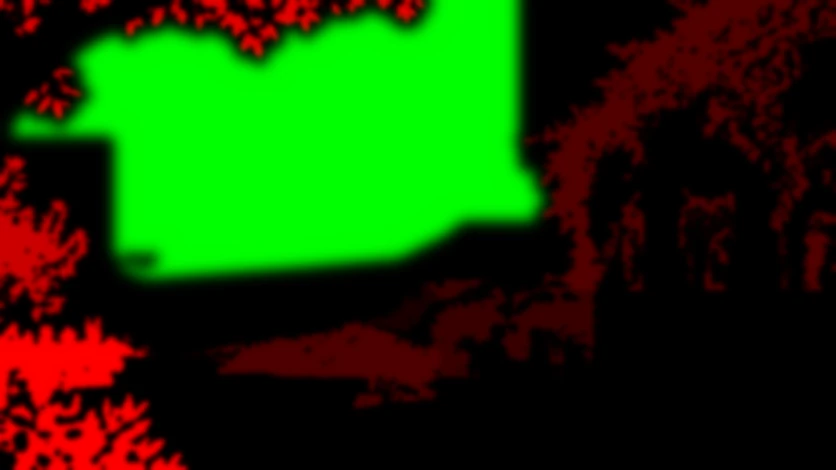
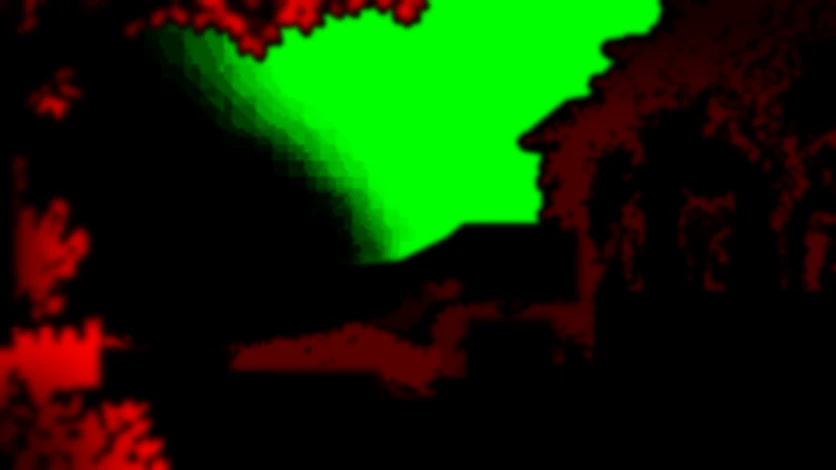
Hero: the breeze and the clouds are plain to see
The first version moved too little to notice (leaves about 1 px/s, clouds
not at all in practice).

Leaves: a new motion map (branches held at the wood, free at the tips;
books, bench, people, temple and trunk kept still) and a stronger breeze
with gusts. Measured in the running page at 1708 x 982: about 7 px/s as a
rule, up to 24-30 px/s in a gust; stone and people at 0.

Clouds: they now truly cross the sky instead of cross-fading in place.
The picture's clouds are lifted onto a belt that goes round (what each
adds over the bare sky, and how opaque it is); where the sky is open and
blue the page takes the picture's cloud out and lays the belt's over what
is left. They come out of the sun's glow on the left and go behind the
vines on the right, 9 px/s, and more clouds wait where no sky shows, so
the sky never empties. With the belt at its start the result is the
picture itself, so nothing jumps when the motion begins.

Claude-Session: https://claude.ai/code/session_01RrPH73gTjXxXCz3BhyU8SM

diff --git a/app/components/landing/HeroScene.tsx b/app/components/landing/HeroScene.tsx
@@ -2,14 +2,25 @@
 
 import { useEffect, useRef } from 'react'
 
-// The hero's picture, alive: a breeze moves the leaves and the clouds drift, slowly, as on a calm morning. The
-// picture itself is drawn first, as an ordinary image; once the page is running, a canvas over it redraws the same
-// picture with each place nudged by a motion map (red: how much it sways, green: how much it drifts). Nothing moves
-// for people who prefer reduced motion or where WebGL isn't available: they keep the still picture.
+// The hero's picture, alive: a breeze moves the leaves and the clouds cross the sky, plainly but gently, as on a calm
+// morning. The picture itself is drawn first, as an ordinary image; once the page is running, a canvas over it redraws
+// the same picture with its leaves nudged and its clouds carried along. Nothing moves for people who prefer reduced
+// motion or where WebGL isn't available: they keep the still picture.
+//
+// Three small pictures, made from the hero's own (see the comments in the shader), say what moves:
+//   motion  red: how much a place sways in the breeze; green: how open the sky is there to passing clouds
+//   clouds  the clouds on their own, as a belt as wide as the picture that goes round: the upper half is what each
+//           cloud adds over an ordinary blue, the lower half how opaque it is. Besides the picture's own clouds it
+//           holds more of them where no open sky shows, waiting their turn
+//   sky     the sky as it would be without clouds
 
 /** Both the image and the canvas show the picture this much larger, so swaying leaves never pull in its edge. */
-const OVERSCAN = 1.012
+const OVERSCAN = 1.02
 const FRAME_MS = 1000 / 30
+/** How fast the clouds cross, in the picture's own pixels a second: a cloud's width in some twenty seconds. */
+const CLOUD_SPEED = 9
+/** Seconds the clouds take to get under way. */
+const CLOUD_START = 1.5
 
 const VERTEX = `
 attribute vec2 corner;
@@ -23,40 +34,64 @@ const FRAGMENT = `
 precision highp float;
 uniform sampler2D picture;
 uniform sampler2D motion;
+uniform sampler2D clouds;
+uniform sampler2D sky;
 uniform vec2 cover;
 uniform vec2 pixel;
 uniform float time;
 uniform float ease;
+uniform float drift;
 varying vec2 uv;
 const float TURN = 6.2831853;
+// The belt of clouds holds the sky's rows only: this much of the picture's height.
+const float SKY = 576.0 / 941.0;
+// The ordinary blue the belt's light is measured from.
+const vec3 BLUE = vec3(176.0, 196.0, 232.0) / 255.0;
+
+// A row of the sky in the belt's upper half (add 0.5 for the lower).
+float row(float y) {
+  return clamp(y / SKY, 0.001, 0.999) * 0.5;
+}
 
 void main() {
   vec2 at = (uv - 0.5) * cover + 0.5;
   vec2 move = texture2D(motion, at).rg;
 
-  // The breeze: gusts cross the picture from the left; every branch answers in its own time.
-  float gust = 0.5 + 0.3 * sin(TURN * (at.x * 0.8 - time / 9.0)) + 0.2 * sin(TURN * (at.x * 0.35 + at.y * 0.5 - time / 14.0) + 1.7);
-  float branch = TURN * (at.x * 3.1 + at.y * 2.3);
+  // The breeze. A gust crosses the picture from the left every six seconds or so: it bends the foliage downwind and
+  // sets it swaying harder; between gusts it settles. Distances are in the picture's own pixels.
+  float gust = clamp(
+    0.5 + 0.34 * sin(TURN * (at.x * 0.7 - time / 6.0)) + 0.22 * sin(TURN * (at.x * 0.3 + at.y * 0.45 - time / 9.5) + 1.7),
+    0.0, 1.0);
+  float live = 0.32 + 0.68 * gust;
+  float branch = TURN * (at.x * 2.6 + at.y * 1.9);  // whole branches, together
+  float twig = TURN * (at.x * 11.0 - at.y * 7.0);   // sprays of leaves, each in its own time
   vec2 sway = vec2(
-    sin(time * 1.15 + branch) + 0.45 * sin(time * 2.3 + branch * 1.7 + 0.8),
-    0.4 * sin(time * 0.9 + branch * 1.3 + 2.0)
+    sin(time * 2.8 + branch) + 0.55 * sin(time * 4.4 + twig),
+    0.35 * sin(time * 2.27 + branch * 1.3 + 2.0) + 0.3 * sin(time * 3.86 + twig * 1.2)
   );
-  vec2 flutter = 0.22 * vec2(
-    sin(time * 3.1 + at.x * 57.0 + at.y * 31.0),
-    cos(time * 2.7 + at.x * 29.0 - at.y * 49.0)
+  vec2 flutter = vec2(
+    sin(time * 8.1 + at.x * 150.0 + at.y * 90.0),
+    cos(time * 6.9 + at.x * 80.0 - at.y * 130.0)
   );
-  vec2 leaf = at + move.r * (0.35 + 0.65 * gust) * 3.6 * (sway + flutter) * pixel * ease;
+  vec2 shift = vec2(12.0, 1.44) * gust * gust + live * (9.0 * sway + 2.0 * flutter);
+  vec2 leaf = at - move.r * shift * pixel * ease;
 
-  // The sky: two copies of the clouds, each sliding to the right and fading into the other, so the drift never ends.
-  float a = fract(time / 18.0);
-  float b = fract(time / 18.0 + 0.5);
-  float reach = move.g * 0.022 * ease;
-  vec4 first = texture2D(picture, leaf - vec2(reach * (a - 0.5), 0.0));
-  vec4 second = texture2D(picture, leaf - vec2(reach * (b - 0.5), 0.0));
-  vec3 color = mix(first.rgb, second.rgb, abs(2.0 * a - 1.0));
+  vec3 color = texture2D(picture, leaf).rgb;
+
+  // The clouds. Where the sky is open, the picture's own cloud is taken out (what it has over the bare sky, as far
+  // as the belt says a cloud stands there) and the belt's cloud, wherever it has got to, is laid over what is left.
+  // With the belt where it started the two are the same cloud, so the picture is unchanged.
+  if (move.g > 0.002) {
+    float along = fract(at.x - drift);
+    vec3 light = texture2D(clouds, vec2(along, row(at.y))).rgb * (170.0 / 255.0) - 48.0 / 255.0;
+    float thick = texture2D(clouds, vec2(along, row(at.y) + 0.5)).r;
+    float stood = 0.02 + sqrt(0.0004 + 0.16 * texture2D(clouds, vec2(leaf.x, row(leaf.y) + 0.5)).r);
+    vec3 own = clamp((stood - 0.04) / 0.16, 0.0, 1.0) * (color - texture2D(sky, leaf).rgb);
+    color += move.g * (light + thick * (BLUE - color + own) - own);
+  }
 
   // Sunlight through moving leaves.
-  color *= 1.0 + 0.03 * move.r * ease * sin(time * 1.9 + branch * 2.1);
+  color *= 1.0 + 0.05 * move.r * live * ease * sin(time * 3.4 + twig * 1.7);
   gl_FragColor = vec4(color, 1.0);
 }`
 
@@ -89,18 +124,22 @@ function program(gl: WebGLRenderingContext) {
   return gl.getProgramParameter(made, gl.LINK_STATUS) ? made : null
 }
 
+type Sources = { motion: string; clouds: string; sky: string }
+
+function load(src: string) {
+  const made = new Image()
+  made.src = src
+  return made
+}
+
 /** Starts the motion on the canvas; resolves to the function that stops it (or null if it couldn't start). */
-async function animate(
-  image: HTMLImageElement,
-  canvas: HTMLCanvasElement,
-  motionSrc: string,
-  cancelled: () => boolean,
-) {
+async function animate(image: HTMLImageElement, canvas: HTMLCanvasElement, sources: Sources, cancelled: () => boolean) {
   if (!image.complete) await new Promise((done) => image.addEventListener('load', done, { once: true }))
-  const map = new Image()
-  map.src = motionSrc
+  const map = load(sources.motion)
+  const belt = load(sources.clouds)
+  const bare = load(sources.sky)
   try {
-    await Promise.all([image.decode(), map.decode()])
+    await Promise.all([image, map, belt, bare].map((each) => each.decode()))
   } catch {
     return null
   }
@@ -115,14 +154,20 @@ async function animate(
   const corner = gl.getAttribLocation(shader, 'corner')
   gl.enableVertexAttribArray(corner)
   gl.vertexAttribPointer(corner, 2, gl.FLOAT, false, 0, 0)
-  texture(gl, 0, image)
-  texture(gl, 1, map)
-  gl.uniform1i(gl.getUniformLocation(shader, 'picture'), 0)
-  gl.uniform1i(gl.getUniformLocation(shader, 'motion'), 1)
+  for (const [unit, [name, source]] of Object.entries({
+    picture: image,
+    motion: map,
+    clouds: belt,
+    sky: bare,
+  }).entries()) {
+    texture(gl, unit, source)
+    gl.uniform1i(gl.getUniformLocation(shader, name), unit)
+  }
   gl.uniform2f(gl.getUniformLocation(shader, 'pixel'), 1 / image.naturalWidth, 1 / image.naturalHeight)
   const cover = gl.getUniformLocation(shader, 'cover')
   const time = gl.getUniformLocation(shader, 'time')
   const ease = gl.getUniformLocation(shader, 'ease')
+  const drift = gl.getUniformLocation(shader, 'drift')
 
   const fit = () => {
     const { clientWidth: w, clientHeight: h } = canvas
@@ -154,9 +199,12 @@ async function animate(
     if (now - last < FRAME_MS - 2) return
     clock += Math.min(now - last, 100) / 1000
     last = now
-    const t = Math.min(clock / 3.5, 1)
+    const t = Math.min(clock / 2.5, 1)
     gl.uniform1f(time, clock)
     gl.uniform1f(ease, t * t * (3 - 2 * t))
+    // How far round the belt has gone, as a part of the picture's width.
+    const travelled = CLOUD_SPEED * (clock - CLOUD_START * (1 - Math.exp(-clock / CLOUD_START)))
+    gl.uniform1f(drift, (travelled / image.naturalWidth) % 1)
     gl.drawArrays(gl.TRIANGLE_STRIP, 0, 4)
     if (!shown) {
       shown = true
@@ -201,11 +249,12 @@ async function animate(
 export function HeroScene({
   src,
   motion,
+  clouds,
+  sky,
   width,
   height,
-}: {
+}: Sources & {
   src: string
-  motion: string
   width: number
   height: number
 }) {
@@ -218,7 +267,7 @@ export function HeroScene({
     if (!image || !canvas || window.matchMedia('(prefers-reduced-motion: reduce)').matches) return
     let stop: (() => void) | null = null
     let gone = false
-    animate(image, canvas, motion, () => gone).then((made) => {
+    animate(image, canvas, { motion, clouds, sky }, () => gone).then((made) => {
       if (gone) made?.()
       else stop = made
     })
@@ -226,7 +275,7 @@ export function HeroScene({
       gone = true
       stop?.()
     }
-  }, [motion])
+  }, [motion, clouds, sky])
 
   return (
     <>

diff --git a/app/components/landing/Hero.tsx b/app/components/landing/Hero.tsx
@@ -1,4 +1,4 @@
-import { HERO_MOTION, LANDING } from '../../lib/art'
+import { HERO_SCENE, LANDING } from '../../lib/art'
 import { SignInButton } from '../SignInButton'
 import { HeroScene } from './HeroScene'
 import { Parallax } from './Parallax'
@@ -23,7 +23,7 @@ export function Hero() {
       className="relative h-svh max-h-[62.5vw] min-h-[520px] w-full overflow-hidden bg-[#efe6d4] [container-type:size]"
     >
       <Parallax speed={0.18} startAtTop className="absolute inset-0">
-        <HeroScene src={LANDING.hero} motion={HERO_MOTION} width={W} height={H} />
+        <HeroScene src={LANDING.hero} {...HERO_SCENE} width={W} height={H} />
       </Parallax>
       {/* The design's warm haze: light over the sky, strongest behind the words so they read. */}
       <div

diff --git a/app/lib/art.ts b/app/lib/art.ts
@@ -43,8 +43,12 @@ export const LANDING = {
   lyceum: `${BASE}/landing/04_lyceum_landscape.webp`,
 } as const
 
-/** Where the hero's picture moves: red for leaves in the breeze, green for the drifting sky. */
-export const HERO_MOTION = `${BASE}/derived/hero-motion.webp`
+/** What moves in the hero's picture (HeroScene says how each is read): its leaves, its clouds, its bare sky. */
+export const HERO_SCENE = {
+  motion: `${BASE}/derived/hero-motion.webp`,
+  clouds: `${BASE}/derived/hero-clouds.webp`,
+  sky: `${BASE}/derived/hero-sky.webp`,
+} as const
 
 type CourseLike = { id: number; name: string; code: string | null }
 
